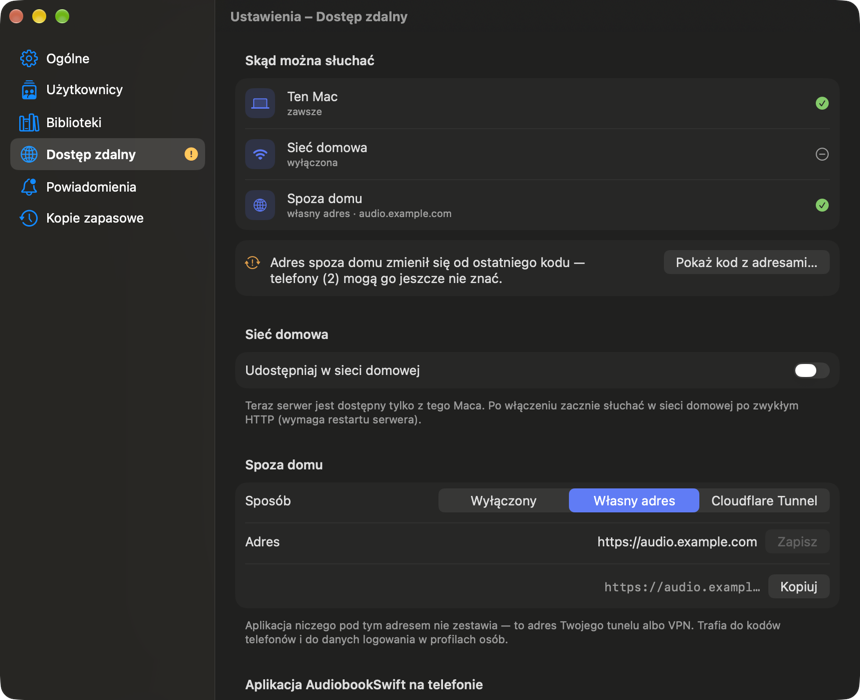
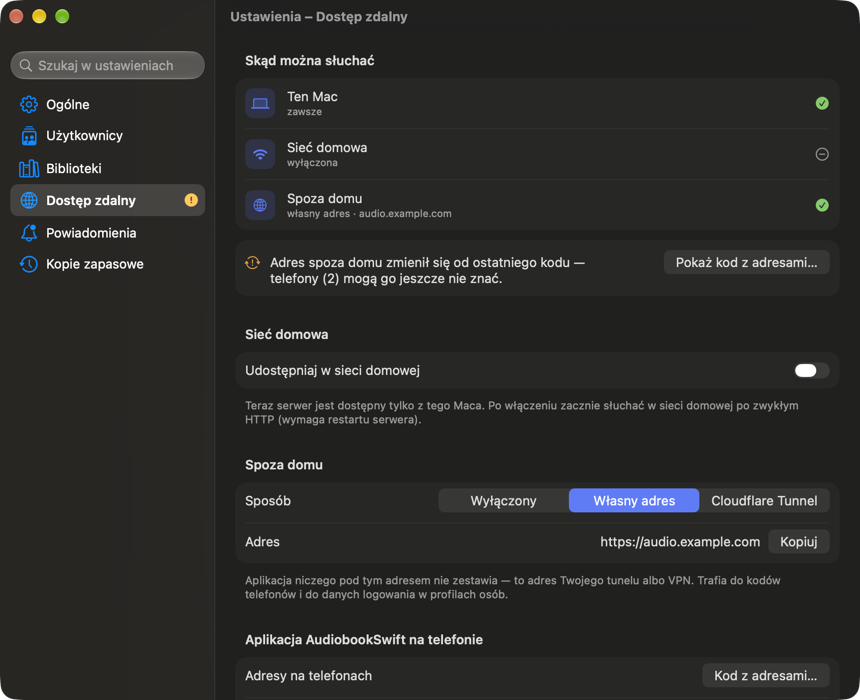
Ustawienia: wyszukiwanie (także po dawnych nazwach stron) i jedno pole własnego adresu
- pole „Szukaj w ustawieniach” na pasku bocznym; wyniki otwierają stronę, podstronę albo rozwinięte „Zaawansowane”
- własny adres: jedno pole z „Zapisz” albo „Kopiuj” zamiast drugiego wiersza z tym samym adresem
- „Dostęp zdalny” i „Biblioteki” rozwijają „Zaawansowane” także, gdy są już otwarte
- część 16 planu, README, ROADMAP, zrzuty

diff --git a/AudiobookSwift/AudiobookSwift/UI/Settings/SettingsSearch.swift b/AudiobookSwift/AudiobookSwift/UI/Settings/SettingsSearch.swift
@@ -1,0 +1,109 @@
+import Foundation
+
+/// Wyszukiwanie w oknie „Ustawienia” (część 7 planu `docs/ustawienia-nowy-uklad.md`): pole na pasku
+/// bocznym znajduje ustawienia po nazwie, po słowach kluczowych i po dawnych nazwach stron
+/// („Udostępnianie”, „Konta”, „Aktywność”, „Sparuj”…), żeby stare wskazówki (np. w starszej wersji
+/// aplikacji na iPhonie) dalej prowadziły do właściwego miejsca.
+struct SettingsSearchEntry: Identifiable {
+    enum Target {
+        case page(SettingsPage)
+        /// Strona z rozwiniętym „Zaawansowane” (tylko strony, które to obsługują: Biblioteki, Dostęp zdalny).
+        case advanced(SettingsPage)
+        case subpage(SettingsDestination)
+    }
+
+    let title: String
+    /// Gdzie to jest, np. „Dostęp zdalny › Zaawansowane”.
+    let path: String
+    let terms: [String]
+    let target: Target
+
+    var id: String { path + "|" + title }
+
+    static let all: [SettingsSearchEntry] = [
+        // Ogólne
+        .init(title: "Stan serwera, uruchom i zatrzymaj", path: "Ogólne › Serwer",
+              terms: ["serwer", "uruchom", "zatrzymaj", "restart", "port", "błąd startu", "adres na tym macu"], target: .page(.general)),
+        .init(title: "Dziennik serwera", path: "Ogólne › Dziennik serwera",
+              terms: ["log", "log serwera", "dziennik", "kopiuj log"], target: .subpage(.serverLog)),
+        .init(title: "Uruchamiaj przy logowaniu", path: "Ogólne › Aplikacja",
+              terms: ["logowaniu", "start", "autostart"], target: .page(.general)),
+        .init(title: "„Podłącz telefon…” w menu na pasku menu", path: "Ogólne › Aplikacja",
+              terms: ["pasek menu", "menu", "skrót"], target: .page(.general)),
+        .init(title: "Fragmenty sponsorowane w podcastach", path: "Ogólne › Fragmenty sponsorowane",
+              terms: ["sponsor", "reklama", "reklamy", "autopromocja", "pomijaj", "model językowy", "llm", "openai", "mistral", "gemini", "klucz api modelu", "transkrypcja", "zgoda"],
+              target: .subpage(.sponsorDetection)),
+        .init(title: "Wersja, folder danych, poziom logu, język serwera", path: "Ogólne › Zaawansowane",
+              terms: ["wersja", "audiobookshelf", "folder danych", "poziom logu", "język", "ustawienia serwera"], target: .page(.general)),
+        // Użytkownicy
+        .init(title: "Osoby i ich konta", path: "Użytkownicy",
+              terms: ["konta", "konto", "osoba", "użytkownik", "dodaj osobę", "hasło", "zmień hasło", "awatar", "rola", "administrator", "gość", "uprawnienia", "dostęp do bibliotek", "tagi", "usuń konto", "słucha teraz"],
+              target: .page(.users)),
+        .init(title: "Telefony: podłącz, odłącz, kod z adresami", path: "Użytkownicy › profil osoby › Telefony",
+              terms: ["telefon", "iphone", "sparuj", "parowanie", "podłącz telefon", "odłącz", "qr", "aplikacja na telefonie"], target: .page(.users)),
+        .init(title: "Administrator serwera (root)", path: "Użytkownicy › Administrator serwera",
+              terms: ["root", "hasło roota", "reset hasła", "zaloguj ponownie", "konta"], target: .subpage(.root)),
+        .init(title: "Historia słuchania wszystkich", path: "Użytkownicy › Historia słuchania",
+              terms: ["aktywność", "sesje", "sesja", "historia", "kto słucha", "otwarte sesje"], target: .subpage(.history(userID: nil))),
+        // Biblioteki
+        .init(title: "Biblioteki: dodawanie, skan, kolejność", path: "Biblioteki",
+              terms: ["biblioteka", "skanuj", "skan", "pełny skan", "dopasuj wszystkie", "folder", "dodaj audiobooki", "dodaj podcasty", "podcast", "audiobook", "kolejność", "harmonogram skanu", "usuń bibliotekę"],
+              target: .page(.libraries)),
+        .init(title: "Metadane: polskie źródła i własni dostawcy", path: "Biblioteki › Metadane",
+              terms: ["metadane", "źródła metadanych", "lubimyczytać", "audioteka", "storytel", "audible", "dostawca", "własny dostawca"], target: .page(.libraries)),
+        .init(title: "Skaner, okładki, sortowanie, pamięć podręczna", path: "Biblioteki › Zaawansowane",
+              terms: ["skaner", "okładki", "okładka", "obserwuj foldery", "obserwator", "metadata.json", "sortowanie", "przedrostki", "pamięć podręczna", "cache", "wyczyść", "ustawienia serwera"],
+              target: .advanced(.libraries)),
+        // Dostęp zdalny
+        .init(title: "Sieć domowa i dostęp spoza domu", path: "Dostęp zdalny",
+              terms: ["udostępnianie", "sieć domowa", "sieć lokalna", "wifi", "adres", "spoza domu", "własny adres", "vpn", "tailscale", "skąd można słuchać"], target: .page(.sharing)),
+        .init(title: "Cloudflare Tunnel", path: "Dostęp zdalny › Spoza domu",
+              terms: ["cloudflare", "tunel", "token tunelu"], target: .page(.sharing)),
+        .init(title: "Kod z adresami dla telefonów", path: "Dostęp zdalny",
+              terms: ["kod z adresami", "adresy na telefonach", "zmiana adresu"], target: .page(.sharing)),
+        .init(title: "Klucze API, logowanie (SSO, OpenID), kanały RSS, log tunelu", path: "Dostęp zdalny › Zaawansowane",
+              terms: ["klucz api", "klucze", "api", "sso", "openid", "logowanie", "rss", "kanał", "kanały", "dostęp", "log tunelu"],
+              target: .advanced(.sharing)),
+        // Powiadomienia
+        .init(title: "Powiadomienia (Apprise)", path: "Powiadomienia",
+              terms: ["powiadomienia", "apprise", "discord", "telegram", "ntfy", "nowe powiadomienie", "powiadomienia i e-mail"], target: .page(.notifications)),
+        .init(title: "E-mail na czytniki i serwer poczty (SMTP)", path: "Powiadomienia",
+              terms: ["e-mail", "email", "smtp", "poczta", "kindle", "czytnik", "czytniki", "wyślij na czytnik"], target: .page(.notifications)),
+        // Kopie zapasowe
+        .init(title: "Kopie zapasowe", path: "Kopie zapasowe",
+              terms: ["kopia", "kopie", "backup", "przywróć", "wgraj z pliku", "automatyczne kopie", "folder kopii", "limit rozmiaru"], target: .page(.backups)),
+    ]
+
+    /// Wpisy pasujące do zapytania: każde słowo zapytania musi wystąpić w tytule, ścieżce albo słowach kluczowych
+    /// (bez znaczenia wielkość liter i polskie znaki).
+    static func results(for query: String) -> [SettingsSearchEntry] {
+        let words = normalized(query).split(whereSeparator: \.isWhitespace).map(String.init)
+        guard !words.isEmpty else { return [] }
+        return all.filter { entry in
+            let haystack = normalized(([entry.title, entry.path] + entry.terms).joined(separator: " "))
+            return words.allSatisfy { haystack.contains($0) }
+        }
+    }
+
+    static func normalized(_ text: String) -> String {
+        text.folding(options: [.caseInsensitive, .diacriticInsensitive], locale: Locale(identifier: "pl_PL"))
+    }
+}
+
+extension SettingsNavigation {
+    /// Przechodzi do miejsca znalezionego w wyszukiwaniu.
+    func open(_ target: SettingsSearchEntry.Target) {
+        switch target {
+        case .page(let page):
+            self.page = page
+            path = []
+        case .advanced(let page):
+            // Strona czyta `pendingAdvanced` przy pojawieniu się, a gdy już jest widoczna — przy jego zmianie.
+            pendingAdvanced = page
+            self.page = page
+            path = []
+        case .subpage(let destination):
+            show(destination)
+        }
+    }
+}

diff --git a/AudiobookSwift/AudiobookSwift/UI/Settings/RemoteAccessPage.swift b/AudiobookSwift/AudiobookSwift/UI/Settings/RemoteAccessPage.swift
@@ -76,17 +76,19 @@ struct RemoteAccessPage: View {
             await keys.load()
             await feeds.load()
         }
-        .onAppear {
-            if navigation.pendingAdvanced == .sharing {
-                navigation.pendingAdvanced = nil
-                showsAdvanced = true
-            }
-        }
+        .onAppear(perform: consumePendingAdvanced)
+        .onChange(of: navigation.pendingAdvanced) { consumePendingAdvanced() }
     }
 
     private struct AdvancedLoad: Equatable {
         let expanded: Bool
         let state: ServerAccount.State
+    }
+
+    private func consumePendingAdvanced() {
+        guard navigation.pendingAdvanced == .sharing else { return }
+        navigation.pendingAdvanced = nil
+        showsAdvanced = true
     }
 
     private func showAddressesCode() {
@@ -187,19 +189,21 @@ struct RemoteAccessPage: View {
             case .none:
                 EmptyView()
             case .custom:
+                // Jedno pole: „Zapisz” przy zmianie, „Kopiuj” zapisanego adresu (bez drugiego wiersza z tym samym adresem).
                 LabeledContent("Adres") {
                     HStack {
                         TextField("Własny adres", text: $externalURL, prompt: Text("np. https://ksiazki.example.com"))
                             .labelsHidden()
                             .onSubmit { sharing.setExternalURL(externalURL) }
-                        Button("Zapisz") { sharing.setExternalURL(externalURL) }
-                            .disabled(externalURL.trimmingCharacters(in: .whitespaces) == sharing.settings.externalURL)
+                        if externalChanged {
+                            Button("Zapisz") { sharing.setExternalURL(externalURL) }
+                        } else if let url = sharing.externalURL {
+                            Button("Kopiuj") { NSPasteboard.copy(url.absoluteString) }
+                                .help("Kopiuj adres \(url.absoluteString)")
+                        }
                     }
                 }
                 .onAppear { externalURL = sharing.settings.externalURL }
-                if let url = sharing.externalURL {
-                    CopyableRow(title: "", value: url.absoluteString)
-                }
             case .cloudflareTunnel:
                 CloudflareTunnelSection(tunnel: tunnel)
             }
@@ -208,6 +212,10 @@ struct RemoteAccessPage: View {
         } footer: {
             Text(outsideFooter)
         }
+    }
+
+    private var externalChanged: Bool {
+        externalURL.trimmingCharacters(in: .whitespaces) != sharing.settings.externalURL
     }
 
     private var outsideFooter: String {

diff --git a/AudiobookSwift/AudiobookSwift/UI/Settings/SettingsWindow.swift b/AudiobookSwift/AudiobookSwift/UI/Settings/SettingsWindow.swift
@@ -229,6 +229,7 @@ struct SettingsWindow: View {
 
     let models: AppModels
     @Bindable var navigation: SettingsNavigation
+    @State private var query = ""
 
     var body: some View {
         NavigationSplitView {
@@ -237,9 +238,15 @@ struct SettingsWindow: View {
                 // Klik w bieżącą stronę wraca z podstrony (np. z dziennika do „Ogólnych”).
                 set: { if let page = $0 { navigation.page = page; navigation.path = [] } }
             )) {
-                // Jedna lista bez podziału na aplikację i serwer (etap 6 planu, pytanie 10).
-                ForEach(SettingsPage.allCases) { row($0) }
+                if query.trimmingCharacters(in: .whitespaces).isEmpty {
+                    // Jedna lista bez podziału na aplikację i serwer (etap 6 planu, pytanie 10).
+                    ForEach(SettingsPage.allCases) { row($0) }
+                } else {
+                    searchResults
+                }
             }
+            // Szuka też po dawnych nazwach stron („Udostępnianie”, „Konta”, „Aktywność”…).
+            .searchable(text: $query, placement: .sidebar, prompt: "Szukaj w ustawieniach")
             // Sama szerokość kolumny nie wystarcza: podział pamięta poprzednią szerokość.
             .frame(minWidth: 215)
             .navigationSplitViewColumnWidth(min: 215, ideal: 215, max: 280)
@@ -262,6 +269,29 @@ struct SettingsWindow: View {
         .environment(navigation)
         .onAppear { models.loginItem.refresh() }
         .task { await SettingsTour.runIfRequested(models: models, navigation: navigation) }
+    }
+
+    @ViewBuilder
+    private var searchResults: some View {
+        let results = SettingsSearchEntry.results(for: query)
+        if results.isEmpty {
+            Text("Brak wyników").foregroundStyle(.secondary)
+        }
+        ForEach(results) { entry in
+            Button {
+                navigation.open(entry.target)
+                query = ""
+            } label: {
+                VStack(alignment: .leading, spacing: 2) {
+                    Text(entry.title)
+                    Text(entry.path).font(.caption).foregroundStyle(.secondary)
+                }
+                .frame(maxWidth: .infinity, alignment: .leading)
+                .contentShape(.rect)
+            }
+            .buttonStyle(.plain)
+            .accessibilityLabel("\(entry.title), \(entry.path)")
+        }
     }
 
     private func row(_ page: SettingsPage) -> some View {

diff --git a/AudiobookSwift/AudiobookSwift/UI/Settings/SettingsPages.swift b/AudiobookSwift/AudiobookSwift/UI/Settings/SettingsPages.swift
@@ -36,11 +36,9 @@ struct LibrariesSettingsPage: View {
         }
         .onAppear {
             models.libraryTasks.appear()
-            if navigation.pendingAdvanced == .libraries {
-                navigation.pendingAdvanced = nil
-                showsAdvanced = true
-            }
+            consumePendingAdvanced()
         }
+        .onChange(of: navigation.pendingAdvanced) { consumePendingAdvanced() }
         // Biblioteki mogły przybyć albo zniknąć poza aplikacją (web UI, inny administrator).
         .task(id: models.account.state) {
             guard models.account.state == .ready else { return }
@@ -55,6 +53,12 @@ struct LibrariesSettingsPage: View {
             await model.load()
         }
         .onDisappear { models.libraryTasks.disappear() }
+    }
+
+    private func consumePendingAdvanced() {
+        guard navigation.pendingAdvanced == .libraries else { return }
+        navigation.pendingAdvanced = nil
+        showsAdvanced = true
     }
 
     private struct AdvancedLoad: Equatable {

diff --git a/ROADMAP.md b/ROADMAP.md
@@ -95,7 +95,7 @@ Decyzja użytkownika: 13a i 13b od razu.
 
 - **13a. Znaczniki bez modelu — zrobione.** Plik `<odcinek>.skip.json` obok odcinka (serwer dopisuje go do plików pozycji, klienci pobierają przez `GET /api/items/:id/file/:ino`); w pakiecie: format (odcisk pliku, segmenty `start/end/kind/source/confidence/autoSkip`, reklamy wstawione bez położenia, wzmianki, poprawki odporne na ponowne wykrywanie), wykrywanie z opisu (wąskie reguły nagłówków wstawek PL/EN), z rozdziałów (plik, `psc:chapters`, `podcast:chapters`), z różnicy `itunes:duration` i z nagłówka Megaphone (parser własny, położenie tylko dla tego samego zestawu reklam), plan pomijania i pomijanie w `AudiobookPlayer` z „Cofnij”/„Pomiń”. Mac liczy po pobraniu odcinka na serwer i przyciskiem; iOS: znaczniki z serwera, pobrane z odcinkiem (bez sieci) i liczone na telefonie dla odcinków z kanału. Ustawienie per podcast (pomijaj / tylko pokazuj / ignoruj, osobno reklamy i autopromocja; domyślnie pomijanie), edytor segmentów na obu platformach. Szczegóły i wyniki w README. Zostało: poprawki z telefonu na serwer, wspólne ustawienie per podcast między urządzeniami, sprzątanie pliku po usunięciu odcinka, VoiceOver i prawdziwe urządzenie.
 - **13b. Transkrypcja i zdalny klasyfikator na Macu — zrobione.** Ustawienia → Ogólne: adres i model usługi zgodnej z OpenAI, klucz w pęku kluczy, zgoda przypięta do hosta, „Sprawdź połączenie”, „Wykrywaj fragmenty sponsorowane” i domyślne działanie kategorii (podcast może mieć wyjątek). Po pobraniu odcinka na serwer i przyciskiem: kolejka w `SkipController` (plik w folderze danych, punkt kontrolny okien — wznowienie po ponownym uruchomieniu), transkrypcja `DictationTranscriber` z pamięcią podręczną 11a, okna 10 min z 2 min zakładki, wykrywanie instrukcją z rozpoznania (numery wierszy w JSON-ie, z walidacją) i osobne pytanie o kategorię każdego bloku — ocena z kluczem użytkownika (Mistral Small, 6 odcinków): 8/10 trafionych, 0 fałszywych obszarów, kategoria zgodna we wszystkich trafieniach, ponowienia (429/5xx/zerwane połączenie), wstrzymanie kolejki przy odrzuconym kluczu, docięcie granic do ciszy przy słowie, zapis segmentów `model` (format bez zmian, poprawki zostają). Bez dublowania z 13a: niepewny zakres z opisu (tylko znacznik, np. dłuższy niż 3 min) zastępuje pewny segment modelu, a pewny zakres z opisu wygrywa z segmentem modelu (13a i model razem: 8/10 trafionych, 0 fałszywych obszarów). Segment modelu pomija się sam od 15 s długości (próg długości zmierzony na zapisanych odpowiedziach: 0 zamiast 3 fałszywych obszarów przy 7/10 trafieniach). Szczegóły, pomiary i polecenie oceny z kluczem w README. Zostało: ocena na innych modelach i większym zestawie, analiza tylko przy zasilaniu, wspólne domyślne kategorie z iOS.
-- **Nowy układ ustawień (plan `docs/ustawienia-nowy-uklad.md`, wariant B) — zrobione.** Sześć stron zamiast dwunastu: Ogólne (z dziennikiem serwera jako podstroną), Użytkownicy (profile, telefony każdej osoby, root z resetem hasła, historia słuchania, „słucha teraz”), Biblioteki (podstrona biblioteki z zapisem natychmiastowym, metadane, wspólne ustawienia skanera), Dostęp zdalny, Powiadomienia (SMTP w arkuszu), Kopie zapasowe. Wpisy 9f i wyżej opisują dawny układ. Fragmenty sponsorowane mają podstronę w „Ogólnych”, kolejność bibliotek zmienia się przeciąganiem. Do zrobienia: wyszukiwanie w oknie ustawień.
+- **Nowy układ ustawień (plan `docs/ustawienia-nowy-uklad.md`, wariant B) — zrobione.** Sześć stron zamiast dwunastu: Ogólne (z dziennikiem serwera jako podstroną), Użytkownicy (profile, telefony każdej osoby, root z resetem hasła, historia słuchania, „słucha teraz”), Biblioteki (podstrona biblioteki z zapisem natychmiastowym, metadane, wspólne ustawienia skanera), Dostęp zdalny, Powiadomienia (SMTP w arkuszu), Kopie zapasowe. Wpisy 9f i wyżej opisują dawny układ. Fragmenty sponsorowane mają podstronę w „Ogólnych”, kolejność bibliotek zmienia się przeciąganiem. Okno ma wyszukiwanie, także po dawnych nazwach stron.
 - **Później:** odcinki tylko z RSS na iOS poza opisem (analiza na Macu na żądanie albo transkrypcja na telefonie), Parakeet v3 przez FluidAudio (lepsza transkrypcja rozmów), odciski powtarzających się reklam. (Ręczna korekta granic weszła w 13a.)
 - **Ustalenia z użytkownikiem (2026-11-23):**
   - Domyślnie automatyczne pomijanie: kto podał API i włączył „Wykrywaj fragmenty sponsorowane”, oczekuje działania. „Cofnij” i znaczniki zostają.

diff --git a/docs/ustawienia-nowy-uklad.md b/docs/ustawienia-nowy-uklad.md
@@ -1043,7 +1043,7 @@ W `ustawienia-nowy-uklad/wdrozenie-png/`, każdy jasny i ciemny:
 
 - **Wiadomość na stronie logowania (D7)** jest w arkuszu „Ustawienia logowania…”, a na stronie widać tylko jej stan („brak” / „ustawiona”). Cały formularz logowania ma jeden zapis.
 - **Sekcja „Aplikacja AudiobookSwift na telefonie”** została na stronie, bo daje stałe miejsce na „Kod z adresami…”, także gdy banera nie ma. Makieta jej nie ma.
-- **Własny adres** ma pole z „Zapisz” i pod nim wiersz z „Kopiuj”, więc adres widać dwa razy.
+- **Własny adres** ma od części 16 jedno pole z „Zapisz” albo „Kopiuj”.
 
 ### Znane braki
 
@@ -1268,7 +1268,7 @@ Atrapy na tym Macu: serwer HTTP udający Apprise (`127.0.0.1:13499`) i serwer SM
 
 - **Własny cron kopii** (KZ4) jest w sekcji „Automatyczne kopie”, a nie pod „Zaawansowane”. Pokazuje się tylko wtedy, gdy harmonogram ustawiono w web UI, więc nie zaśmieca strony.
 - **„Zapisz” w dwóch sekcjach Kopii** zapisuje ten sam formularz. Rozdzielenie zapisu harmonogramu od limitu wymagałoby dwóch zapytań do serwera i zmian w modelu.
-- **Wyszukiwanie w oknie ustawień** (część 7, opcjonalne) nie jest zrobione.
+- **Wyszukiwanie w oknie ustawień** (część 7) dorobione po etapie 6 (część 16).
 
 ### Zdarzenia przy testach (etapy 4–6)
 
@@ -1305,4 +1305,30 @@ Decyzja użytkownika z 2026-11-23: oba punkty otwarte w części 14 zrobić od r
 |---|---|---|
 | Ogólne z wierszem fragmentów | ![](ustawienia-nowy-uklad/wdrozenie-png/strona-ogolne-light.png) | ![](ustawienia-nowy-uklad/wdrozenie-png/strona-ogolne-dark.png) |
 | Fragmenty sponsorowane | ![](ustawienia-nowy-uklad/wdrozenie-png/fragmenty-sponsorowane-light.png) | ![](ustawienia-nowy-uklad/wdrozenie-png/fragmenty-sponsorowane-dark.png) |
+
+## 16. Przed scaleniem: wyszukiwanie w ustawieniach i jeden wiersz własnego adresu
+
+- **Wyszukiwanie** (`UI/Settings/SettingsSearch.swift`, propozycja z części 7):
+  - pole „Szukaj w ustawieniach” nad paskiem bocznym (`.searchable`, miejsce `.sidebar`);
+  - zamiast stron lista wyników z tytułem i ścieżką, np. „Klucze API, logowanie (SSO, OpenID)… — Dostęp zdalny › Zaawansowane”;
+  - 20 wpisów ze słowami kluczowymi, także dawnymi nazwami: „Udostępnianie”, „Konta”, „Aktywność”, „Log serwera”, „Ustawienia serwera”, „Źródła metadanych”, „Powiadomienia i e-mail”, „Sparuj”;
+  - wielkość liter i polskie znaki nie mają znaczenia; każde słowo zapytania musi pasować;
+  - wynik otwiera stronę, podstronę (dziennik, root, historia słuchania, fragmenty sponsorowane) albo stronę z rozwiniętym „Zaawansowane” (Biblioteki, Dostęp zdalny); pole się czyści.
+  - Ogólne, Powiadomienia i Kopie mają „Zaawansowane” we własnym stanie sekcji, więc wynik otwiera tę stronę bez rozwinięcia, a ścieżka mówi „› Zaawansowane”.
+- **Własny adres** w „Dostępie zdalnym”: jedno pole. Obok niego jest „Zapisz”, gdy adres się zmienił, a „Kopiuj”, gdy pole pokazuje zapisany adres. Drugi wiersz z tym samym adresem zniknął.
+- **„Zaawansowane” na widocznej stronie:** „Dostęp zdalny” i „Biblioteki” reagują na prośbę o rozwinięcie także wtedy, gdy są już otwarte (wcześniej tylko przy pojawieniu się).
+- **Sprawdzone uruchomieniem** (testowa kopia, przez dostępność, bez myszy):
+  - „udostepnianie” → „Sieć domowa i dostęp spoza domu”, klik otwiera „Dostęp zdalny”;
+  - „sparuj” → telefony w profilu;
+  - „konta” → osoby i root;
+  - „aktywność” / „aktywnosc” → historia słuchania (klik otwiera podstronę);
+  - „klucz api” i „openid” → Dostęp zdalny z rozwiniętym „Zaawansowane”, także z tej samej strony;
+  - „cache” i „przedrostki” → Biblioteki z rozwiniętym „Zaawansowane”;
+  - „xyzzy” → „Brak wyników”;
+  - własny adres: po zmianie w polu jest „Zapisz”, po powrocie do zapisanego „Kopiuj”. „Kopiuj” nie był klikany, żeby nie nadpisać schowka.
+
+| | Jasny | Ciemny |
+|---|---|---|
+| Wyszukiwanie („konta”) | ![](ustawienia-nowy-uklad/wdrozenie-png/szukanie-light.png) | ![](ustawienia-nowy-uklad/wdrozenie-png/szukanie-dark.png) |
+| Dostęp zdalny | ![](ustawienia-nowy-uklad/wdrozenie-png/strona-dostep-zdalny-light.png) | ![](ustawienia-nowy-uklad/wdrozenie-png/strona-dostep-zdalny-dark.png) |
 

diff --git a/README.md b/README.md
@@ -228,6 +228,7 @@ Zrzuty po etapie 6 (testowa kopia, zmyślone konta i adresy; więcej w części 
 | **Dostęp zdalny** | **Powiadomienia** | **Kopie zapasowe** |
 | ![](docs/ustawienia-nowy-uklad/wdrozenie-png/strona-dostep-zdalny-light.png) | ![](docs/ustawienia-nowy-uklad/wdrozenie-png/strona-powiadomienia-light.png) | ![](docs/ustawienia-nowy-uklad/wdrozenie-png/strona-kopie-light.png) |
 
+- **Wyszukiwanie.** Pole „Szukaj w ustawieniach” nad paskiem bocznym znajduje ustawienie po nazwie, słowie kluczowym albo dawnej nazwie strony („Udostępnianie”, „Konta”, „Aktywność”, „Sparuj”…) i otwiera właściwe miejsce, także rozwinięte „Zaawansowane”.
 - **Nawigacja.** Pasek boczny ze stronami, a w szczegółach stos podstron ze strzałką wstecz: profil osoby i strona roota. Okno pamięta ostatnią stronę między uruchomieniami. Wejścia z innych miejsc otwierają właściwe miejsce, np. „Ustawienia i log…” → Ogólne, wysyłka na czytnik → Powiadomienia, baner „wymaga konta root” → Administrator serwera.
 - **Użytkownicy („Kto słucha?”).** Siatka okrągłych profili z awatarami. Konto tego Maca ma odznakę, a pod kaflem liczbę telefonów, rolę i znacznik „nieaktywne”. Pozostałe kafle:
   - „Dodaj osobę”,
